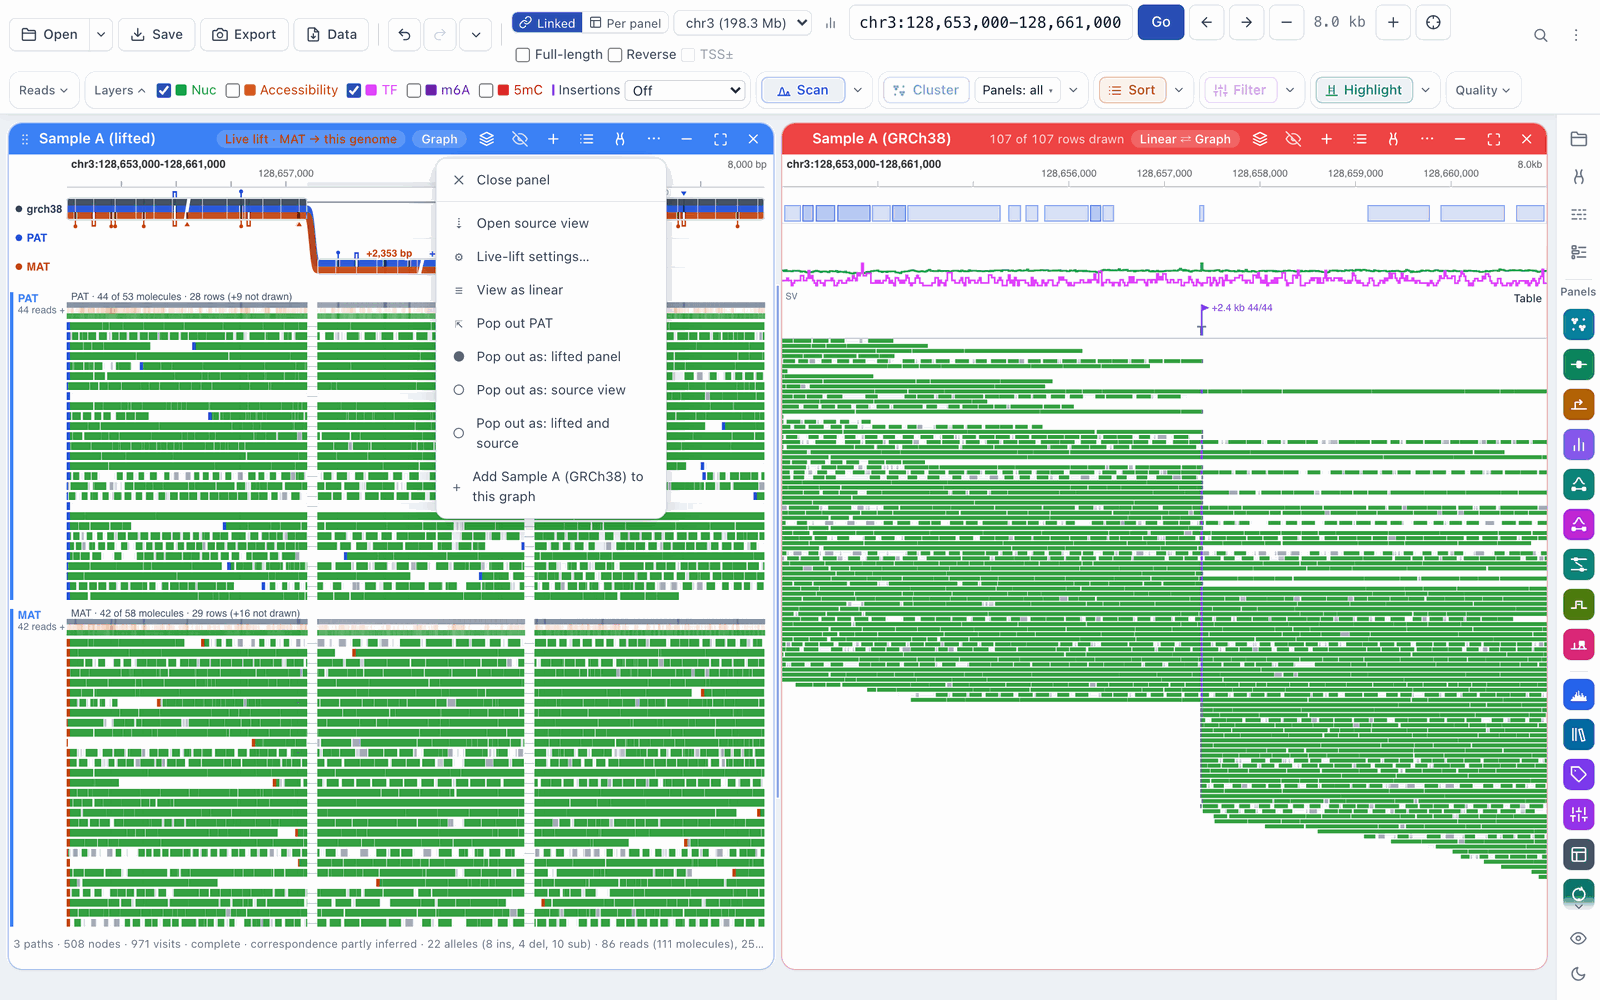
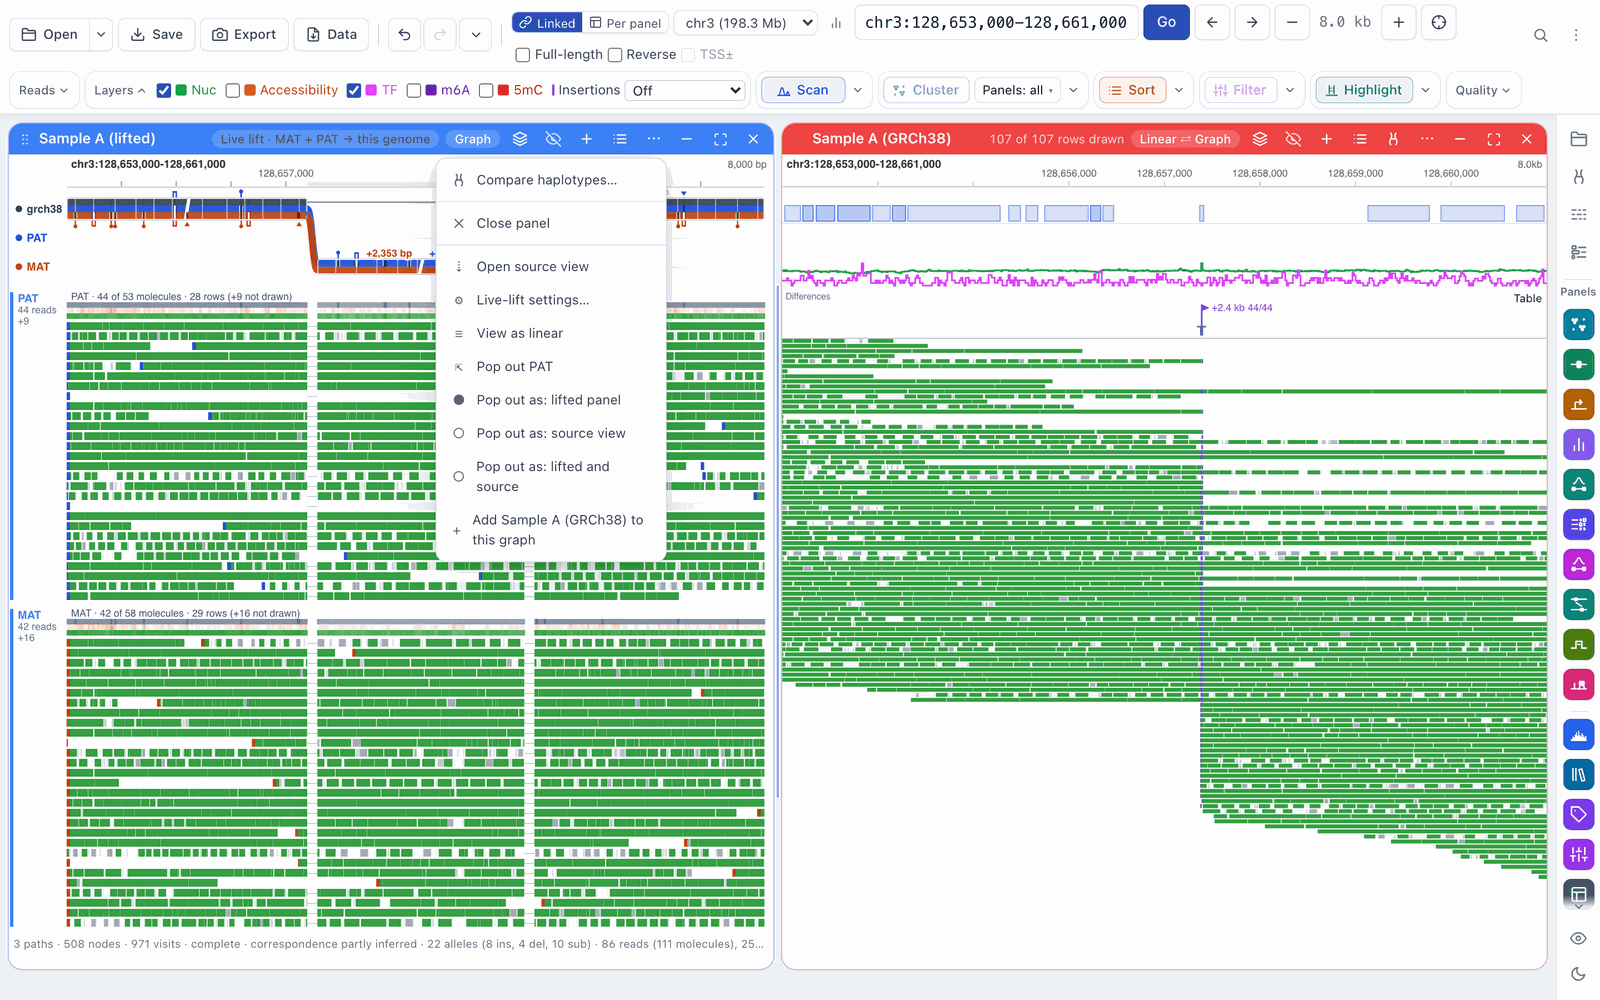
Docs: retake four graph-mode images with the wrapped gutter; pop-out menu text
Host, menu, pop-out and Not a carrier from 915e27877: the reads line wraps
("44 reads" / "+9"), the chip reads MAT + PAT, and the menu starts with
Compare haplotypes. graph-mode.md: Pop out all haplotypes in view and Pop out
paths... appear only when more than one path can pop out (the demo's menu has
Pop out PAT alone).

diff --git a/docs/workflows/graph-mode.md b/docs/workflows/graph-mode.md
@@ -100,9 +100,11 @@ why.
 The graph is a set of panels drawn together. Every band is a real panel, and
 you can take any of them out to look at it on its own.
 
-- **Pop out** a haplotype: in the header's **…** menu, **Pop out PAT**, **Pop
-  out all haplotypes in view**, or **Pop out paths…** (a checklist: **Pop out
-  N** pops out the ticked paths in one undo step). The haplotype opens as its
+- **Pop out** a haplotype: in the header's **…** menu, **Pop out PAT** (one
+  item per haplotype folded into the graph). When more than one path can pop
+  out, the menu also has **Pop out all haplotypes in view** and **Pop out
+  paths…** (a checklist: **Pop out N** pops out the ticked paths in one undo
+  step). The haplotype opens as its
   own panel next to the graph, with its own read tracks and tools. It keeps the
   state it had in the graph (filters, selections, clusters).
 - **Pop out as: lifted panel** (the default), **source view** or **lifted and
